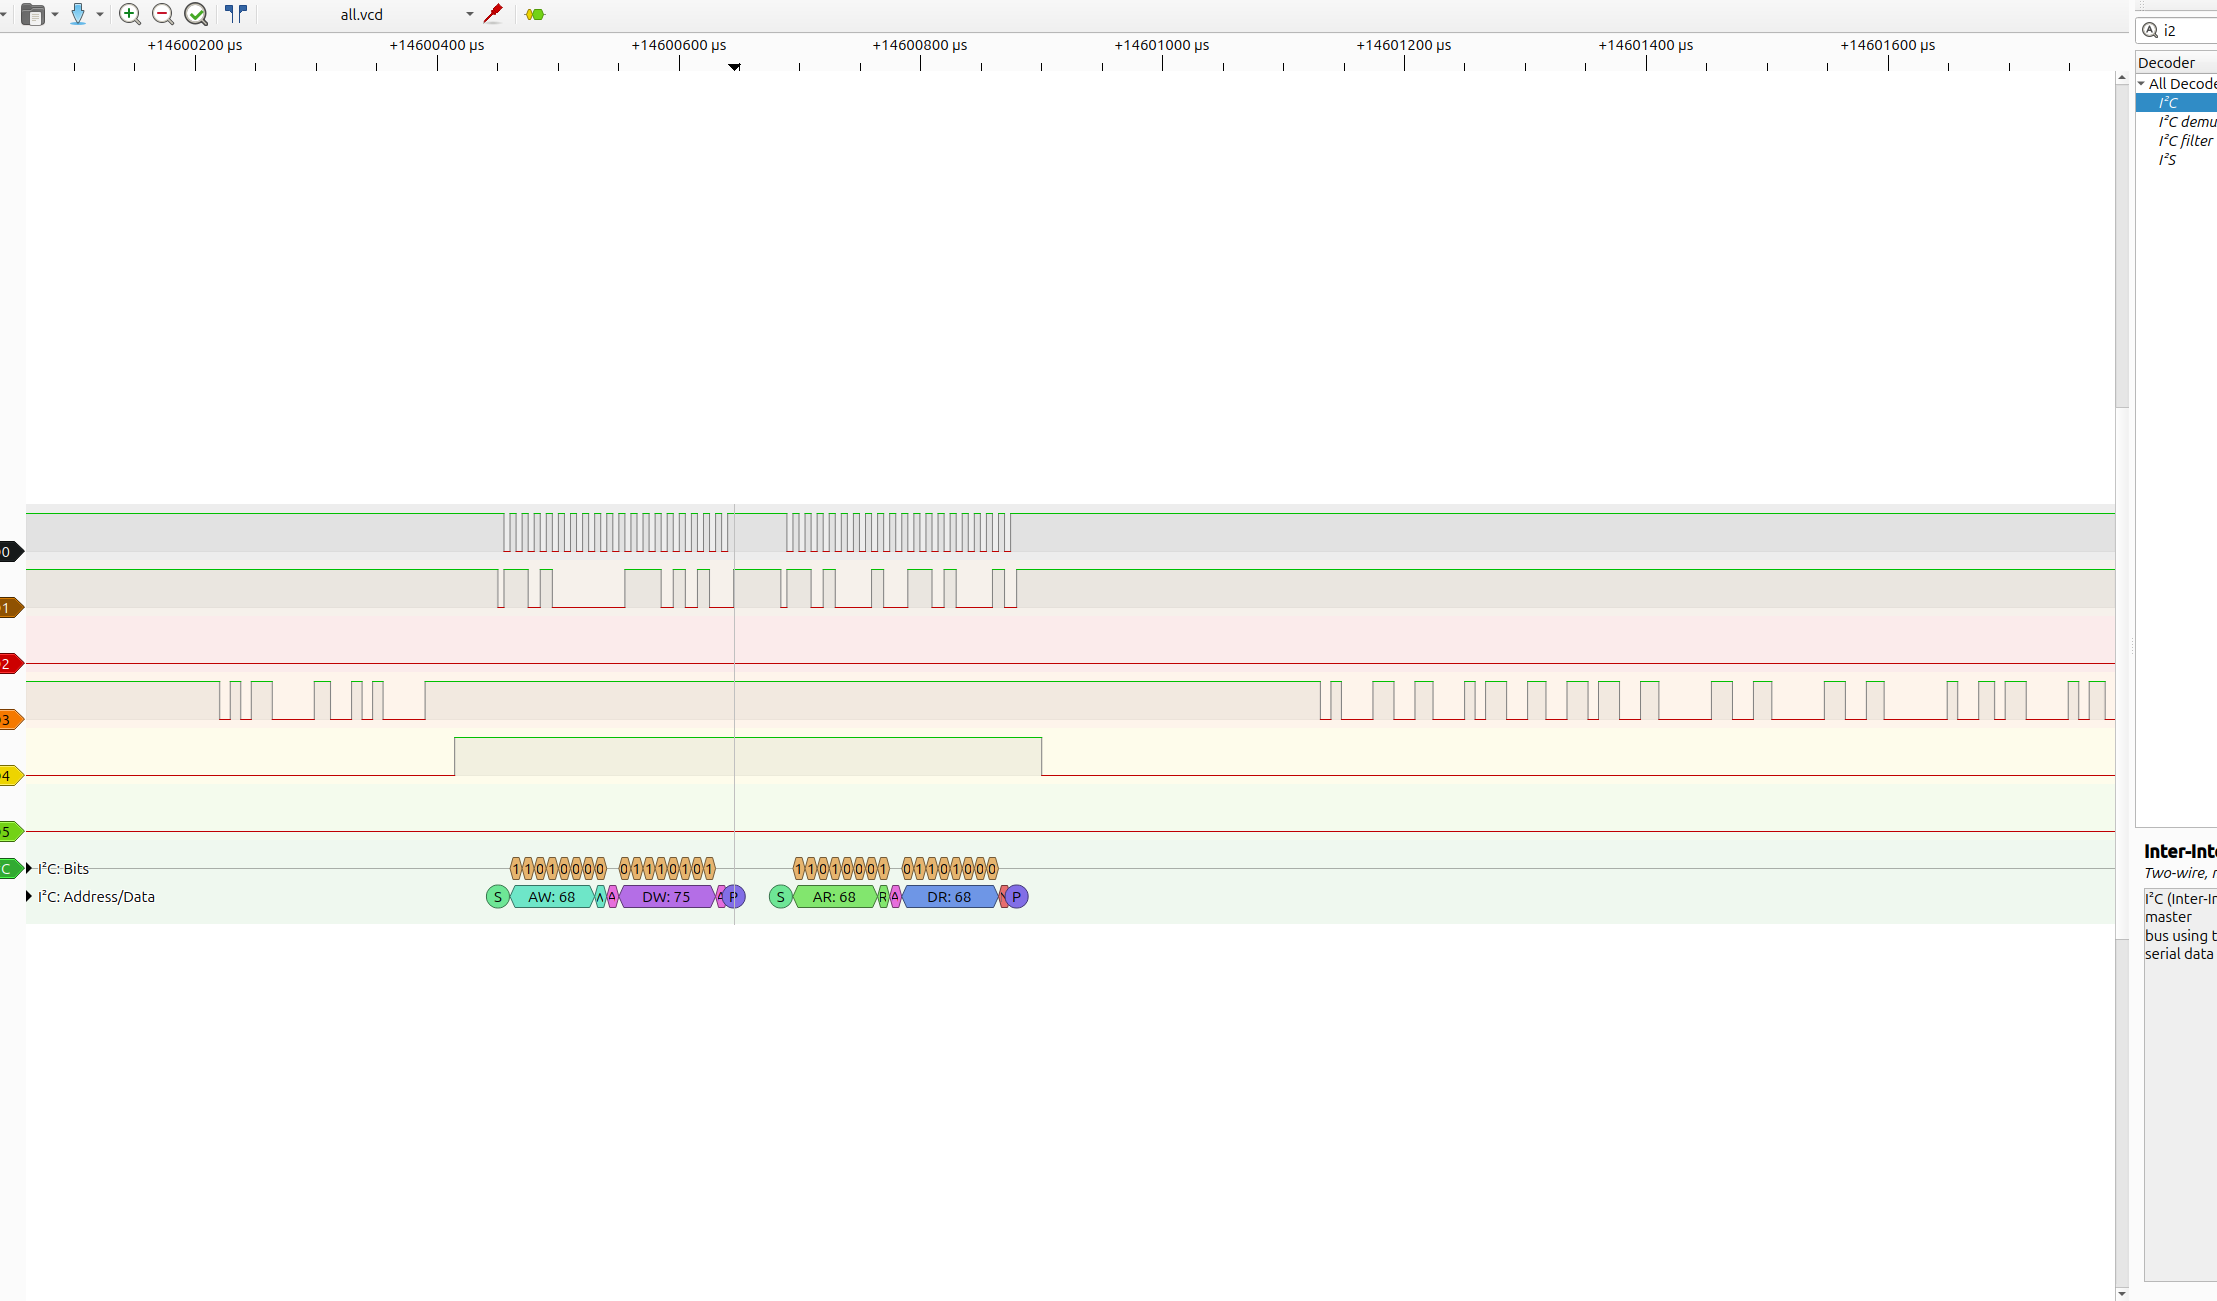
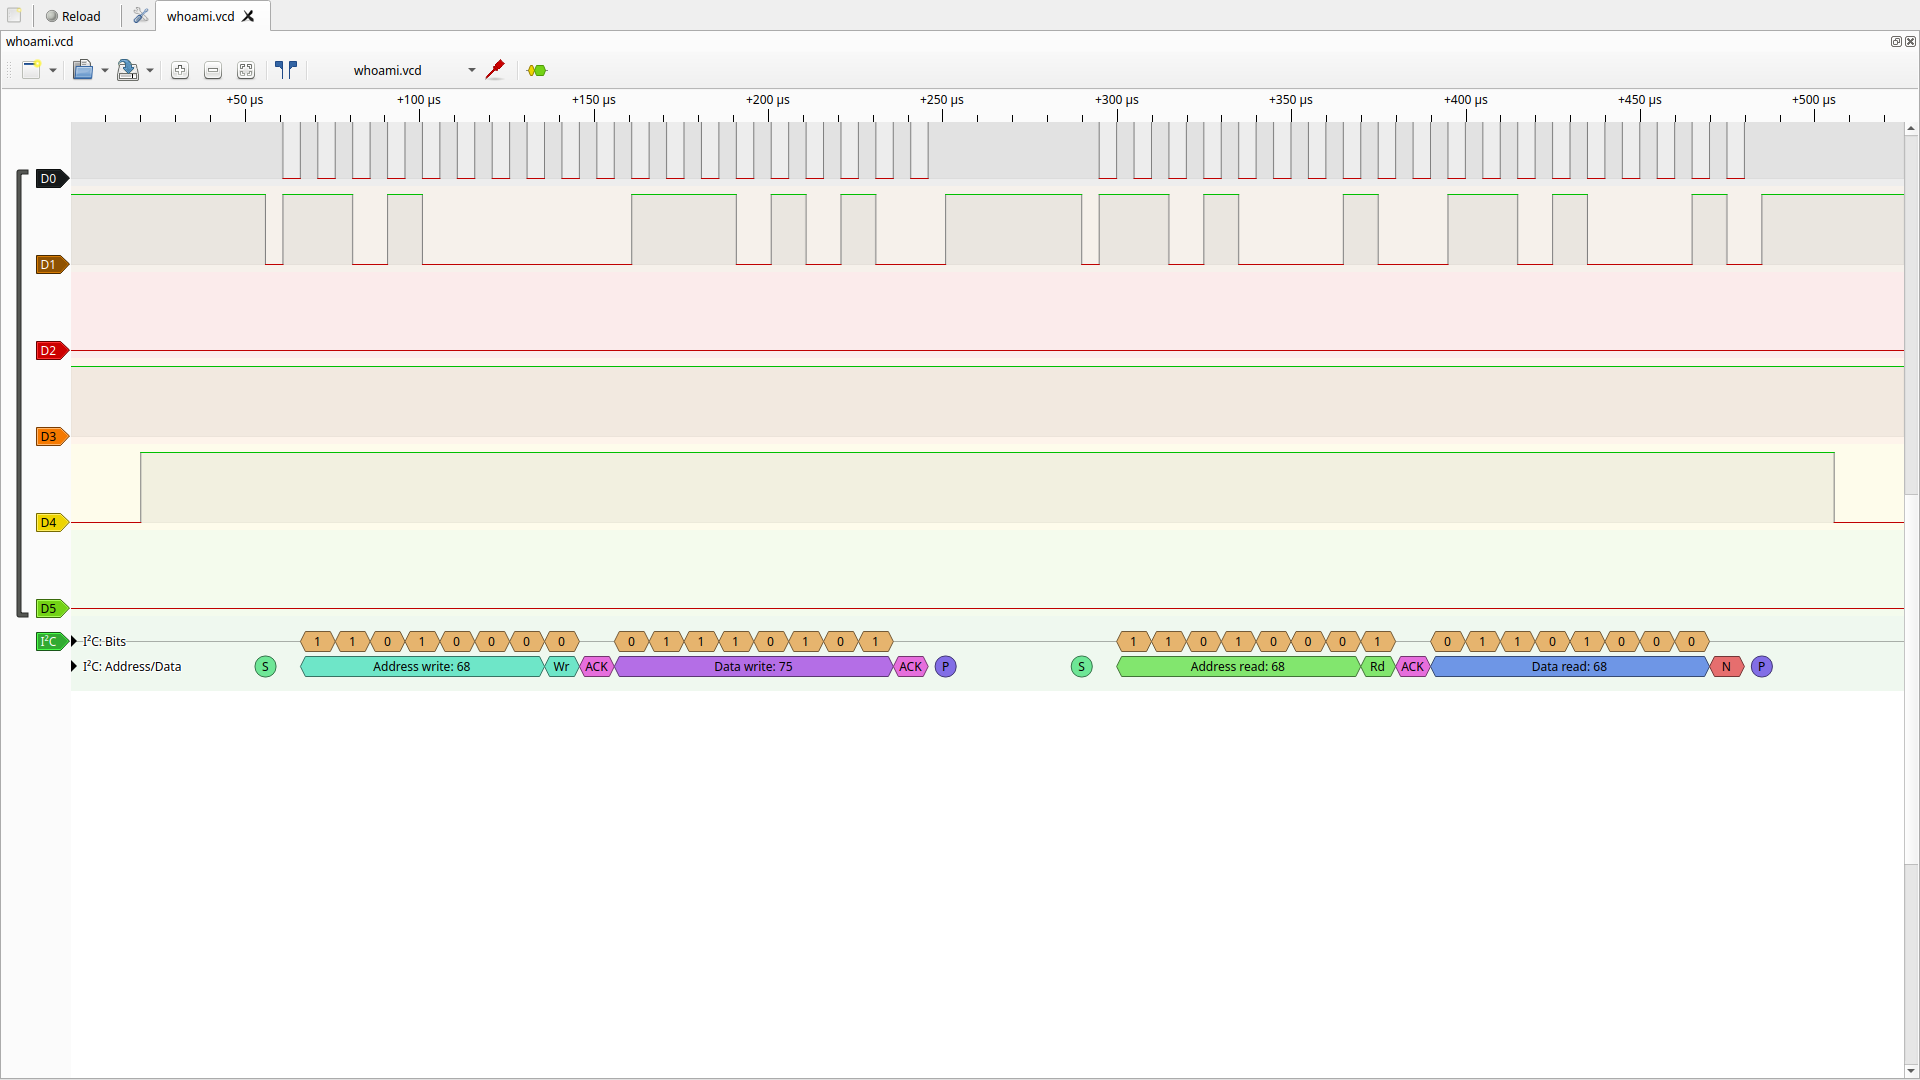
docs: analysis, journal problems 8-9, capture screenshots cleanup

diff --git a/docs/lab_2/analysis.md b/docs/lab_2/analysis.md
@@ -1,0 +1,84 @@
+# Аналіз записів логічного аналізатора (ЛР2, п. 4.4)
+
+Вихідні дані, вікна і методика — [captures/measurements.md](captures/measurements.md); розрахунки — [pinout.md](../pinout.md) §3.
+Записи зроблено у Wokwi (крок часу VCD 1 нс), декодовано sigrok-cli 0.7.2.
+
+## Розрахунок vs вимірювання
+
+| Параметр | Розрахунок | Виміряно | Висновок |
+|---|---|---|---|
+| f_SCL | ≤ 103,9 кГц (`TIMINGR = 0x10805D88`, без t_SYNC; pinout §3.1) | 100,0 кГц: період 10,000 мкс, усі 36 періодів whoami | у межах розрахунку |
+| t_LOW | 5,708 мкс (SCLL = 136) | 5,000 мкс | не збігається |
+| t_HIGH | 3,917 мкс (SCLH = 93) + t_SYNC2 | 5,000 мкс | не збігається |
+| I²C: адреса + 1 байт, S → P | START + 18 тактів + STOP ≈ 19,5 · 10 мкс = 195 мкс | 195,0 мкс | збігається |
+| Біт UART | 8,6875 мкс (BRR = 417 → 115 108 бод; pinout §3.2); ідеал 1/115 200 = 8,6806 мкс | 8,689 мкс по 0x55; МНК по 72 фронтах — 8,6875 мкс (115 108 бод) | збігається з BRR = 417 |
+| Імпульс серво | CCR = 1000 / 2000 мкс (крок TIM3 1 мкс; pinout §3.3) | 1000,0 / 2000,0 мкс | точно |
+| Період ШИМ | (ARR + 1) · 1 мкс = 20 000 мкс | 20,000 мс | точно |
+| АЦП | 14 тактів / 24 МГц = 583 нс на перетворення (pinout §3.4) | імпульс D5 40,35 мкс (два, пауза 58,0 мкс) | D5 — програмний шлях HAL, не перетворення |
+| LCD, символ 'C' | 4 записи PCF8574 по 1 байту → 0x43 | `4D 49 3D 39`, 926,2 мкс на символ | збігається |
+
+### I²C: f_SCL, t_LOW, t_HIGH
+
+Частота формально в межах розрахунку, розподіл періоду — ні. Модель дає рівно 5,000 / 5,000 мкс (50 %) замість
+5,708 / 3,917 мкс із SCLL / SCLH, а період — рівно 10,000 мкс у всіх 36 періодах, без розкиду, яким на залізі
+проявилися б t_SYNC1 і t_SYNC2. Висновок: модель I²C Wokwi не відтворює SCLL / SCLH (обмеження симулятора).
+Вимоги t_LOW ≥ 4,7 мкс і t_HIGH ≥ 4,0 мкс з `TIMINGR` можна перевірити лише на залізі (pinout §3.1, §7).
+
+### UART
+
+Біт 8,6875 мкс = 417 тактів по 48 МГц, тобто USARTDIV = 416,67 округлено до BRR = 417 (pinout §3.2): 115 108 бод,
+−0,08 % від 115 200, у межах допуску ±2 % для 8N1. Різниця з ідеалом — 6,9 нс на біт, 62,5 нс за 9 біт. Інтервали
+у VCD чергуються 8,700 / 8,675 мкс, тому один байт 0x55 дає лише 8,689 мкс. Розрізняє 8,6875 і 8,6806 мкс метод
+найменших квадратів по всіх 72 фронтах 10 кадрів (зсув фронту від старт-біта = k · T_біт).
+
+### Серво
+
+CCR = 1000 / 2000 мкс → на D2 1000,0 / 2000,0 мкс, період 20,000 мс. Відповідність у прошивці 0° → 1000 мкс,
+180° → 2000 мкс (`CAP servo ... pulse_us`) підтверджено на виході. Нова ширина з'являється з наступного періоду ШИМ
+(через 17,5 і 9,65 мс після запису CCR — preload).
+
+### АЦП
+
+Маркер ADC_MARK (D5) у `adc_hal_read` ставиться перед `HAL_ADC_Start` і знімається після `HAL_ADC_GetValue`.
+Отже 40,35 мкс — програмний шлях HAL (Start → PollForConversion → GetValue), а не 583 нс перетворення;
+`HAL_ADC_ConfigChannel` виконується до маркера і в ширину не входить. Окремо час перетворення в симуляторі
+не виміряти: на виводах немає сигналу, прив'язаного до вибірки чи EOC.
+
+### LCD
+
+Розбір вручну. PCF8574: P0 = RS, P1 = RW, P2 = EN, P3 = BL, P4..P7 = D4..D7 (`firmware/Devices/lcd1602.c`).
+
+| Байт | D7..D4 | BL | EN | RW | RS | Зміст |
+|---|---|---|---|---|---|---|
+| 0x4D | 0100 | 1 | 1 | 0 | 1 | старший півбайт 4, EN = 1 |
+| 0x49 | 0100 | 1 | 0 | 0 | 1 | EN = 0 — HD44780 захоплює півбайт на спаді |
+| 0x3D | 0011 | 1 | 1 | 0 | 1 | молодший півбайт 3, EN = 1 |
+| 0x39 | 0011 | 1 | 0 | 0 | 1 | EN = 0 |
+
+RS = 1 (дані), 0x4_ + 0x_3 = 0x43 = 'C'. На символ 926,2 мкс: 4 транзакції по 195 мкс і паузи 46,5 / 50,8 / 48,9 мкс
+між ними. Уся команда `cap lcd` (set_cursor + 16 символів, 68 транзакцій) — 16,504 мс.
+Скрін: [23-cap-lcd](img/23-cap-lcd.png).
+
+## Аномалії
+
+1. **wr2: шина зависає** — [21-cap-wr2](img/21-cap-wr2.png), [30-wr2-again](img/30-wr2-again.png).
+   На шині лише `S 68W A 6B A`, байта 0x00 і STOP немає. SCL у 0 до наступної транзакції: 3,933 с (all.vcd),
+   3,267 с (nack-order.vcd). Прошивка: `CAP wr2 st=TIMEOUT isr=0x00008003` (BUSY | TXIS | TXE).
+   Recover (DeInit + Init) SCL не відпускає. Журнал, проблема 8.
+2. **NACK на чистій шині, а HAL повертає OK** — [29-nack-clean](img/29-nack-clean.png).
+   На шині `S 69W N P`, прошивка `CAP nack st=OK addr=0x69`. Журнал, проблема 9.
+3. **Транзакція після wr2 «з'їдається»** — [31-nack-after-wr2](img/31-nack-after-wr2.png).
+   START і адреси немає, лише SCL↑ і два STOP-фронти; прошивка знову `st=OK`. Те саме в `mpu6050_init`:
+   запис вказівника 0x6B з'їдено, зворотне читання `S 68R A 40 N P` повертає 0x40 → ERR_SLEEP (журнал, проблема 8).
+4. **UART: маркер D4 падає раніше, ніж закінчується передача** — [27-cap-uart](img/27-cap-uart.png).
+   `HAL_UART_Transmit` чекає прапорець TC, але повернувся через 14,3 мкс після старт-біта 10-го байта,
+   за 72 мкс до кінця його стоп-біта.
+
+## Чого не видно в симуляторі
+
+- Аналогові фронти I²C (t_r, t_f), вплив підтяжок і ємності шини — фронти ідеальні (pinout §7).
+- Розподіл t_LOW / t_HIGH за `TIMINGR`, t_SYNC, розтягування SCL з боку slave.
+- Час вибірки і перетворення АЦП, вплив опору джерела R_AIN (pinout §3.4, §7).
+- Похибка тактового генератора: частоти рівно номінальні (UART точно за BRR, період ШИМ рівно 20,000 мс).
+- Механіка серво (фактичний кут, струм) — видно лише ШИМ.
+- Чи повторюються зависання I²C з проблем 8–9 на залізі — з цих записів не випливає.

diff --git a/docs/journal.md b/docs/journal.md
@@ -27,6 +27,11 @@
 Симптом: після переходу на `HAL_I2C_Mem_Read`/`Mem_Write` усі транзакції з MPU-6050 повертають `st=1` (HAL_ERROR), навіть WHO_AM_I, хоча скан пристрої бачить.
 Фікс: відкат на `HAL_I2C_Master_Transmit` + `HAL_I2C_Master_Receive` (зі STOP між ними); діагностика статусів і raw-байтів 0x3B лишилась.
 
-## Проблема 8: запис 2 байтів у MPU-6050 у Wokwi → TIMEOUT, SLEEP не знімається
-Симптом: `I2C_RECOVER where=wr err=0x20 isr=0x00008003` тричі, `MPU6050 init status=3` (ERR_SLEEP), хоча WHO_AM_I = 0x68 і прискорення читається (0/0/1000 mg).
+## Проблема 8: запис 2 байтів у MPU-6050 у Wokwi → TIMEOUT, шина зависає
+Симптом: при старті тричі `I2C_RECOVER where=wr err=0x20 isr=0x00008003`, далі `SELFTEST mpu6050 status=WARN who=0x68 tries=3 err=SLEEP`; `cap wr2` → `CAP wr2 st=TIMEOUT isr=0x00008003`. WHO_AM_I = 0x68 і прискорення (0/0/1000 mg) читаються.
+На шині (docs/lab_2/captures/measurements.md, скріни 21, 30): лише `S 68W A 6B A` — байта 0x00 і STOP немає. Після 9-го такту SCL лежить у 0 до наступної транзакції: 3,933 с (all.vcd) і 3,267 с (nack-order.vcd), при старті між спробами — 105,2–105,5 мс.
 
+
+## Проблема 9: 1-байтовий запис на відсутню адресу 0x69 → HAL_OK, хоча на шині NACK
+Симптом: `cap nack` → `CAP nack st=OK addr=0x69`, хоча I²C-скан при старті знаходить лише 0x27 і 0x68.
+Декодований UART на D3 після кожного маркера D4:
